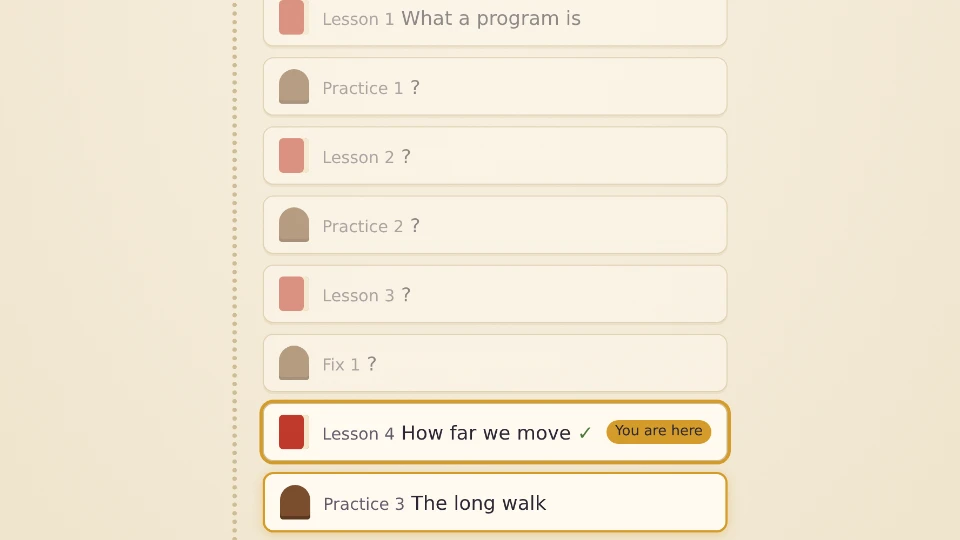
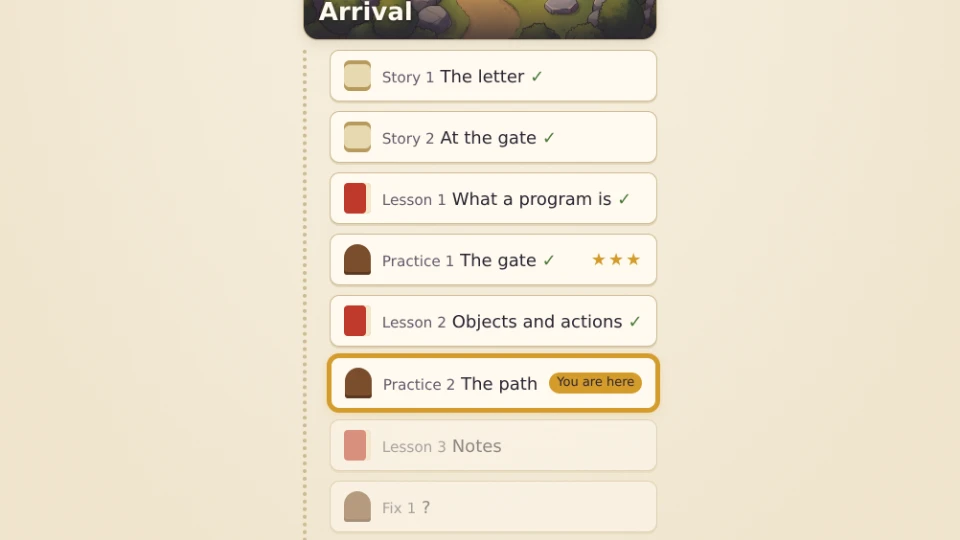
Show in the map tip's picture what a child sees there
The picture showed stops hidden before open ones, which only the debug
view gives, and stops far ahead of where a child reading the tip is. The
owner wants no spoiler in it: it is taken now from a game with the first
stops won, the wizard on the second practice and the rest still covered.
Decision D331.

Changed region(s): [[0.25, 0.0, 0.7812, 1.0]]

diff --git a/app/e2e/tips-pictures.spec.ts b/app/e2e/tips-pictures.spec.ts
@@ -9,13 +9,20 @@
 //
 // (docs/dev/dev-environment.md says how).
 
-import { mkdirSync, writeFileSync } from 'node:fs';
+import { mkdirSync, readFileSync, writeFileSync } from 'node:fs';
 import { fileURLToPath } from 'node:url';
 import { expect, type Locator, type Page, test } from '@playwright/test';
 import { MARTA, type SeededWizard, seedWizard } from './helpers';
 
 const CONTENT = fileURLToPath(new URL('../../content/tips/', import.meta.url));
 const PABLO: SeededWizard = { name: 'Pablo', gender: 'boy', look: 'amber' };
+/** The first chapter's stops, in order. */
+const FIRST: string[] = JSON.parse(
+  readFileSync(fileURLToPath(new URL('../../content/chapters/01-arrival/chapter.json', import.meta.url)), 'utf8'),
+).items;
+/** How many of them the map's picture shows done: the two stories, the first lesson, the
+ * first practice and the second lesson, so that the child is on the second practice. */
+const DONE = 5;
 /** The picture's size, and the most it may weigh (D239). */
 const WIDTH = 960;
 const HEIGHT = 540;
@@ -78,6 +85,26 @@ async function picture(page: Page, lang: string, key: string, around: Locator[])
   expect(webp, `${lang}/${key} fits ${MOST_BYTES} bytes`).not.toBe('');
   mkdirSync(`${CONTENT}${lang}`, { recursive: true });
   writeFileSync(`${CONTENT}${lang}/${key}.webp`, Buffer.from(webp, 'base64'));
+}
+
+/** Gives the page a game a few stops into the first chapter, before the game loads: the
+ * map then shows what a child there sees, the stops done, the one they are on, the next
+ * one named and the rest still covered. */
+async function seedFewStops(page: Page, wizard: SeededWizard): Promise<void> {
+  const done = FIRST.slice(0, DONE).map((item) => item.split(':'));
+  const read = (kind: string) => Object.fromEntries(done.filter(([k]) => k === kind).map(([, id]) => [id, { read: true }]));
+  const progress = {
+    version: 1,
+    wizard,
+    guided: true,
+    stories: read('story'),
+    lessons: read('lesson'),
+    levels: Object.fromEntries(done.filter(([k]) => k === 'level').map(([, id]) => [id, { won: true, stars: 3, runs: 1 }])),
+    current: FIRST[DONE],
+  };
+  await page.addInitScript((kept) => {
+    if (!localStorage.getItem('kydux.games')) localStorage.setItem('kydux.progress', kept);
+  }, JSON.stringify(progress));
 }
 
 async function openLevel(page: Page, id: string): Promise<void> {
@@ -158,7 +185,17 @@ for (const [lang, locale, wizard] of [
       await picture(page, lang, 'keys', [page.locator('#settings-keys')]);
     });
 
-    test('a lesson whose example is run on its page, and the map', async ({ page }) => {
+    test('the map, and a lesson whose example is run on its page', async ({ page }) => {
+      // The map of a child on the second practice: no stop further on is uncovered.
+      await seedFewStops(page, wizard);
+      await page.goto('/#map');
+      await expect(page.locator('.map-screen')).toBeVisible();
+      const chapter = page.locator('.map-chapter').first();
+      const stops = chapter.locator('.stop');
+      await expect(stops.nth(DONE)).toHaveAttribute('data-state', 'open');
+      await expect(stops.nth(DONE + 2)).toHaveAttribute('data-state', 'locked');
+      // The first chapter's heading and its first stops, large enough to read.
+      await picture(page, lang, 'map', [chapter.locator('h3, h2').first(), ...[0, 1, 2, 3, 4, 5, 6].map((n) => stops.nth(n))]);
       // how-much's third page holds its block, a walk that prints nothing: the page
       // says what the walk did.
       await page.goto('/#lesson/how-much');
@@ -169,12 +206,6 @@ for (const [lang, locale, wizard] of [
       const block = page.locator('.lesson-run').first();
       await expect(block.locator('.lesson-said')).toBeVisible({ timeout: 90_000 });
       await picture(page, lang, 'lesson', [block]);
-      await page.goto('/#map');
-      await expect(page.locator('.map-screen')).toBeVisible();
-      // The first chapter's heading and its first stops, large enough to read.
-      const chapter = page.locator('.map-chapter').first();
-      const stops = chapter.locator('.stop');
-      await picture(page, lang, 'map', [chapter.locator('h3, h2').first(), ...[0, 1, 2, 3, 4, 5].map((n) => stops.nth(n))]);
     });
   });
 }

diff --git a/docs/dev/architecture.md b/docs/dev/architecture.md
@@ -5408,3 +5408,13 @@ one overturns stays, marked as superseded.
   there counts nothing and asks nothing about cookies under any name but the published
   one (D328). Rules out taking the server's files out of the repository, and two games
   under one name.
+- **D331 — A tip's picture shows what a child sees there.** Decided 2026-11-23 by the
+  owner (*La captura del tip sobre el mapa no debería mostrar niveles ocultos anteriores
+  y otros niveles sí accesibles (Eso solo pasa si usas el modo debug), debería mostrar
+  por ejemplo los primeros 3 niveles destapados y lo demás sin destapar, para no hacer
+  spoiler*). A tip's picture (D221, D239) is taken from a game a child could have: the
+  map's is the first chapter of a wizard on the second practice, the stops before it
+  done, the one they are on open, the next one named and every one after it covered, as
+  the map covers what is still to come. `tips-pictures.spec.ts` seeds that game and
+  checks the states before it takes the picture. Rules out a picture taken from the
+  tester's view, and one that names a stop the child has not reached.
